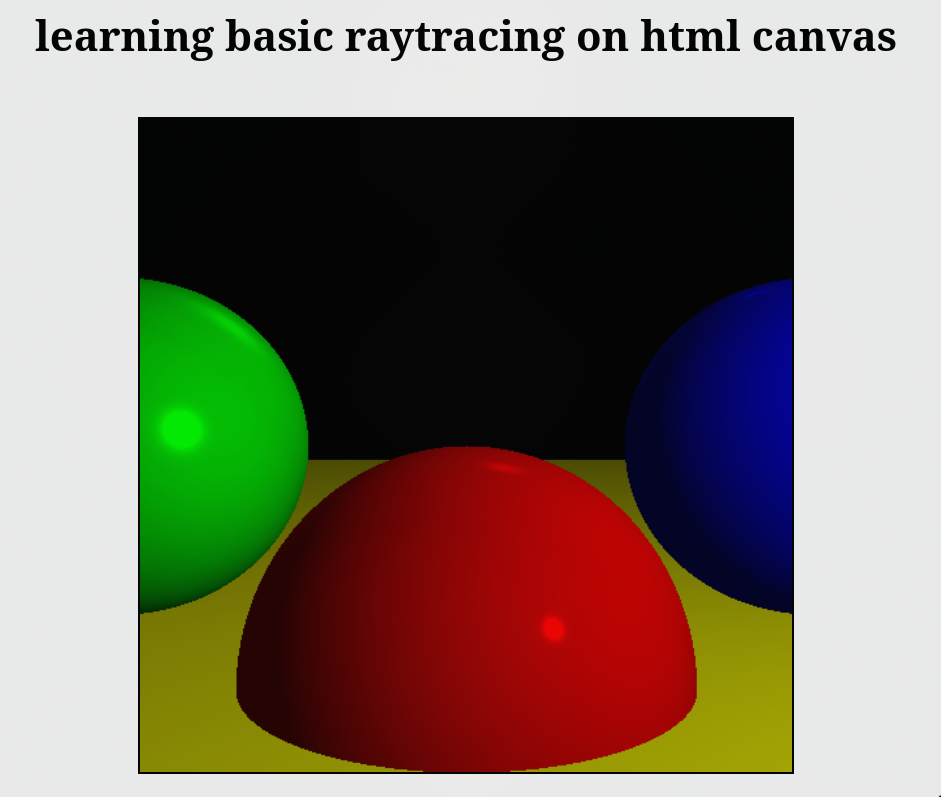
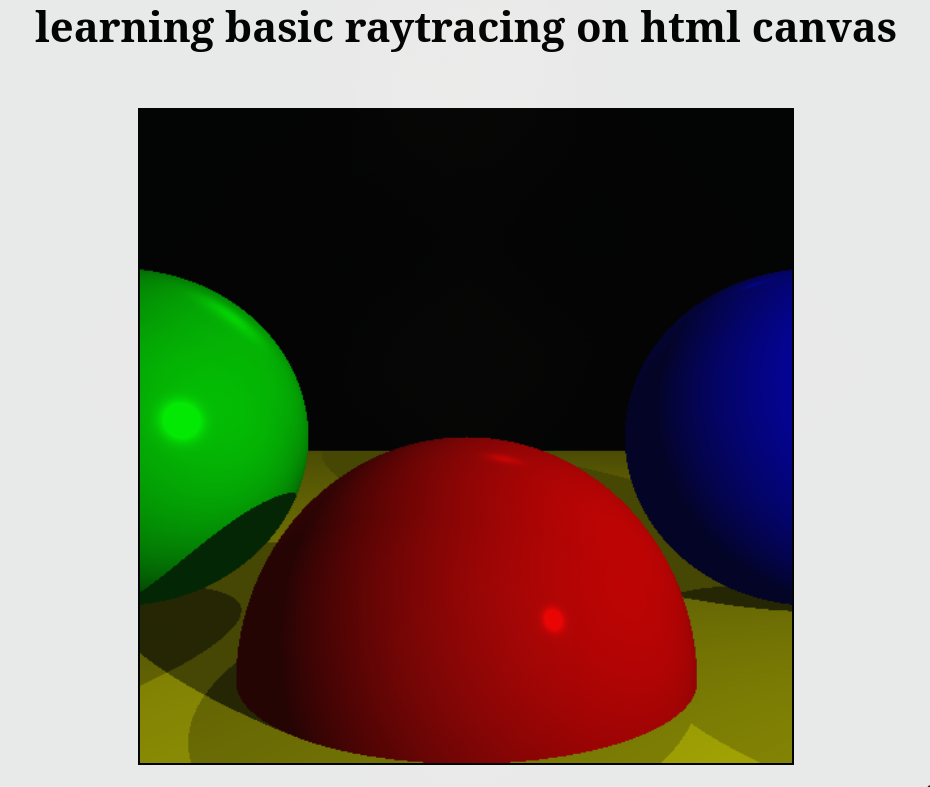
added shadows

diff --git a/src/raytracer.js b/src/raytracer.js
@@ -58,7 +58,7 @@ const d = 1 ;
 
 for (let y = canvas.height/2; y >= -canvas.height/2; y--) {
   for(let x = -canvas.width/2; x <= canvas.width/2; x++) {
-    let D = canvasToViewport(x, y) ;
+    let D = subVec(canvasToViewport(x, y), O) ;
     color = traceRay(O, D, 1, 10000);
     putPixel(x, y, color);
   }
@@ -71,10 +71,22 @@ function canvasToViewport(x, y) {
 }
 
 function traceRay(O, D, t_min, t_max) {
+  let {t_closest, closest_sphere} = closestIntersection(O, D, t_min, t_max) || {};
+  if(closest_sphere == null) {
+    return {r: 0, g: 0, b: 0 };
+  } else {
+    let P = addVec(O, mulScalar(D, t_closest));
+    let N = subVec(P, closest_sphere.center);
+    N = normalize(N);
+    return mulColor(closest_sphere.color, computeLighting(O, P, N, closest_sphere));
+  }
+}
+
+function closestIntersection(point, ray, t_min, t_max) {
   let t_closest = t_max;
-  let closest_sphere = null ;
+  let closest_sphere = null;
   for (let sphere of scene.spheres) {
-    const {t1, t2} = rayIntersection(D, sphere.center, sphere.radius) || {};
+    const {t1, t2} = rayIntersection(point, ray, sphere.center, sphere.radius) || {};
     if( t1 < t_max && t1 > t_min) {
       if (t1 < t_closest) {
         t_closest = t1 ;
@@ -88,14 +100,7 @@ function traceRay(O, D, t_min, t_max) {
       }
     }
   }
-  if(closest_sphere == null) {
-    return {r: 0, g: 0, b: 0 };
-  } else {
-    let P = addVec(O, mulScalar(D, t_closest));
-    let N = subVec(P, closest_sphere.center);
-    N = normalize(N);
-    return mulColor(closest_sphere.color, computeLighting(O, P, N, closest_sphere));
-  }
+  return {t_closest, closest_sphere};
 }
 
 function mulColor(color, i) {
@@ -115,11 +120,12 @@ function subVec(A, B) {
   return {x: A.x - B.x, y: A.y - B.y, z: A.z - B.z};
 }
 
-function rayIntersection(D, C, r) {
-  const DD = D.x * D.x + D.y * D.y + D.z * D.z;
-  const OC = C.x * C.x + C.y * C.y + C.z * C.z;
+function rayIntersection(O, D, C, r) {
+  const DD = dot(D, D);
+  let OC = subVec(C, O);
+  OC = dot(OC, OC);
   const a = DD ;
-  const b = -2 * (D.x * C.x + D.y * C.y + D.z * C.z);
+  const b = -2 * dot(subVec(C, O), D);
   const c = OC - r*r ;
   const delta = b*b - 4*a*c; 
   if (delta >= 0) {
@@ -136,6 +142,7 @@ function rayIntersection(D, C, r) {
 function computeLighting(O, P, N, sphere) {
   let intensity = 0.0 ;
   let L = {} ;
+  let max = null ;
   for (let light of scene.lights) {
     if(light.type == "ambient") {
       intensity += light.intensity ;
@@ -144,13 +151,21 @@ function computeLighting(O, P, N, sphere) {
     else if(light.type == "point") {
       const point = light.point ;
       L = {x: point.x - P.x, y: point.y - P.y, z: point.z - P.z};
+      max = magnitude(L);
     }
     else if(light.type == "directional") {
       L = light.direction ;
+      max = 1000;
     }
+
+    L = normalize(L);
+    let{closest_sphere} = closestIntersection(P, L, 0.0001, max) || {};
+    if(closest_sphere != null) {
+      continue;
+    }
+
     let R = subVec(mulScalar(N, 2 * dot(N, L)), L);
     let V = subVec(O, P);
-    L = normalize(L);
     R = normalize(R);
     V = normalize(V);
     let n_dot_l = dot(L, N) ;
@@ -169,6 +184,9 @@ function computeLighting(O, P, N, sphere) {
 
 function normalize(N) {
   let mag = magnitude(N);
+  if(mag === 0) {
+    return{x: 0, y: 0, z: 0};
+  }
   return {x: N.x/mag, y: N.y/mag, z: N.z/mag};
 }
 

diff --git a/README.md b/README.md
@@ -12,6 +12,7 @@ This is a simple project I made to when learning computer graphics this one expl
 - point, directional, ambient lights supported.
 - diffuse reflection supported
 - specular reflection supported
+- shadows
 
 ---
 
